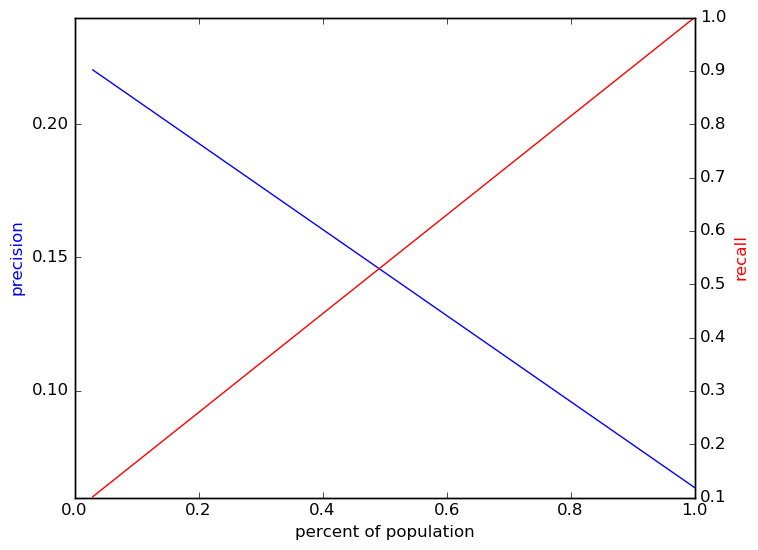
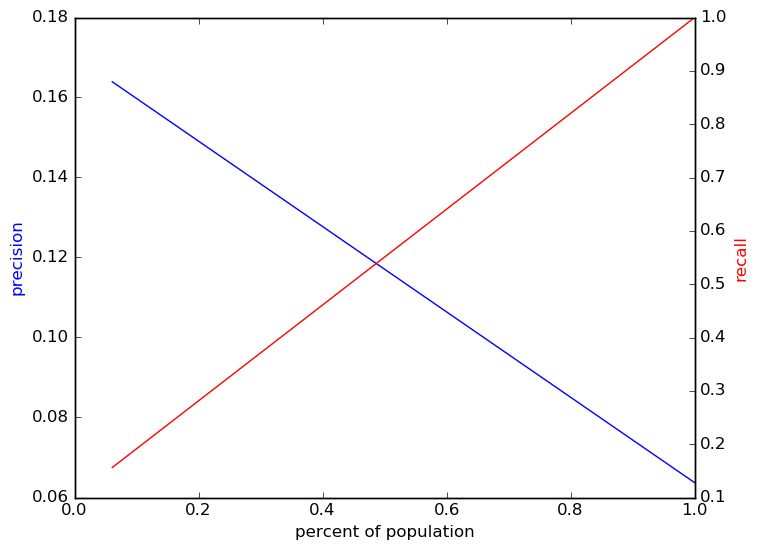
includes figures in md

diff --git a/Reports/wk_G10_allFeatures_3_logit.md b/Reports/wk_G10_allFeatures_3_logit.md
@@ -9,10 +9,10 @@ weekly update Grade 10 model (xc)
 * train cohorts: 2008, 2009, 2010
 	 * 96 postive examples, 3046 negative examples
 * cross-validation scheme: leave cohort out
-	 * searching C in 1e-05, 0.0001, 0.001, 0.01, 0.1, 1.0, 10.0, 100, 1000
-	 * chose C = 1e-05
 	 * searching penalty in l1, l2
 	 * chose penalty = l1
+	 * searching C in 1e-05, 0.0001, 0.001, 0.01, 0.1, 1.0, 10.0, 100, 1000
+	 * chose C = 1e-05
 	 * using custom_precision_3
 * imputation strategy: median plus dummies
 * scaling strategy: robust
@@ -20,26 +20,30 @@ weekly update Grade 10 model (xc)
 ### Features Used
 * grades
 	 * gpa_gr_9
-* demographics
-	 * gender
-	 * ethnicity
 * oaa_normalized
-	 * eighth_read_normalized
-	 * eighth_math_normalized
 	 * eighth_science_normalized
+	 * eighth_math_normalized
+	 * eighth_read_normalized
 * snapshots
+	 * limited_english_gr_9
+	 * disadvantagement_gr_9
+	 * gifted_gr_9
+	 * special_ed_gr_9
+	 * oss_gr_9
+	 * days_absent_gr_9
 	 * days_absent_unexcused_gr_9
 	 * status_gr_9
-	 * disadvantagement_gr_9
-	 * days_absent_gr_9
-	 * disability_gr_9
-	 * limited_english_gr_9
-	 * iss_gr_9
 	 * district_gr_9
-	 * gifted_gr_9
-	 * oss_gr_9
 	 * discipline_incidents_gr_9
-	 * special_ed_gr_9
+	 * iss_gr_9
+	 * disability_gr_9
+* demographics
+	 * ethnicity
+	 * gender
 
 ### Performance Metrics
-on average, model run in 0.20 seconds (18 times) <br/>precision on top 15%: 0.06371 <br/>precision on top 10%: 0.06371 <br/>precision on top 5%: 0.06371 <br/>recall on top 15%: 1.0 <br/>recall on top 10%: 1.0 <br/>recall on top 5%: 1.0 <br/>AUC value is: 0.5 <br/>top features: gender_F (0.0), ethnicity_A (0.0), ethnicity_B (0.0)
+on average, model run in 0.12 seconds (18 times) <br/>precision on top 15%: 0.06371 <br/>precision on top 10%: 0.06371 <br/>precision on top 5%: 0.06371 <br/>recall on top 15%: 1.0 <br/>recall on top 10%: 1.0 <br/>recall on top 5%: 1.0 <br/>AUC value is: 0.5 <br/>top features: limited_english_gr_9_L (0.0), disadvantagement_gr_9_academic (0.0), disadvantagement_gr_9_both (0.0)
+![figs/wk_G10_allFeatures_3_logit_confusion_mat_0.3.png](wk_G10_allFeatures_3_logit_confusion_mat_0.3.png)
+![figs/wk_G10_allFeatures_3_logit_score_dist.png](wk_G10_allFeatures_3_logit_score_dist.png)
+![figs/wk_G10_allFeatures_3_logit_pr_vs_threshold.png](wk_G10_allFeatures_3_logit_pr_vs_threshold.png)
+![figs/wk_G10_allFeatures_3_logit_precision_recall_at_k.png](wk_G10_allFeatures_3_logit_precision_recall_at_k.png)

diff --git a/Reports/wk_G10_allFeatures_3_DT.md b/Reports/wk_G10_allFeatures_3_DT.md
@@ -14,7 +14,7 @@ weekly update Grade 10 model (xc)
 	 * searching max_features in sqrt, log2
 	 * chose max_features = log2
 	 * searching max_depth in 1, 5, 10, 20, 50, 100
-	 * chose max_depth = 50
+	 * chose max_depth = 100
 	 * searching min_samples_split in 2, 5, 10
 	 * chose min_samples_split = 2
 	 * using custom_precision_3
@@ -24,26 +24,30 @@ weekly update Grade 10 model (xc)
 ### Features Used
 * grades
 	 * gpa_gr_9
-* demographics
-	 * gender
-	 * ethnicity
 * oaa_normalized
-	 * eighth_read_normalized
-	 * eighth_math_normalized
 	 * eighth_science_normalized
+	 * eighth_math_normalized
+	 * eighth_read_normalized
 * snapshots
+	 * limited_english_gr_9
+	 * disadvantagement_gr_9
+	 * gifted_gr_9
+	 * special_ed_gr_9
+	 * oss_gr_9
+	 * days_absent_gr_9
 	 * days_absent_unexcused_gr_9
 	 * status_gr_9
-	 * disadvantagement_gr_9
-	 * days_absent_gr_9
-	 * disability_gr_9
-	 * limited_english_gr_9
-	 * iss_gr_9
 	 * district_gr_9
-	 * gifted_gr_9
-	 * oss_gr_9
 	 * discipline_incidents_gr_9
-	 * special_ed_gr_9
+	 * iss_gr_9
+	 * disability_gr_9
+* demographics
+	 * ethnicity
+	 * gender
 
 ### Performance Metrics
-on average, model run in 0.09 seconds (72 times) <br/>precision on top 15%: 0.06371 <br/>precision on top 10%: 0.06371 <br/>precision on top 5%: 0.06371 <br/>recall on top 15%: 1.0 <br/>recall on top 10%: 1.0 <br/>recall on top 5%: 1.0 <br/>AUC value is: 0.5386 <br/>top features: gpa_gr_9 (0.15), days_absent_gr_9 (0.15), eighth_read_normalized (0.13)
+on average, model run in 0.04 seconds (72 times) <br/>precision on top 15%: 0.06371 <br/>precision on top 10%: 0.06371 <br/>precision on top 5%: 0.1639 <br/>recall on top 15%: 1.0 <br/>recall on top 10%: 1.0 <br/>recall on top 5%: 0.1562 <br/>AUC value is: 0.551 <br/>top features: gpa_gr_9 (0.22), eighth_read_normalized (0.13), days_absent_gr_9 (0.11)
+![figs/wk_G10_allFeatures_3_DT_confusion_mat_0.3.png](wk_G10_allFeatures_3_DT_confusion_mat_0.3.png)
+![figs/wk_G10_allFeatures_3_DT_pr_vs_threshold.png](wk_G10_allFeatures_3_DT_pr_vs_threshold.png)
+![figs/wk_G10_allFeatures_3_DT_score_dist.png](wk_G10_allFeatures_3_DT_score_dist.png)
+![figs/wk_G10_allFeatures_3_DT_precision_recall_at_k.png](wk_G10_allFeatures_3_DT_precision_recall_at_k.png)
